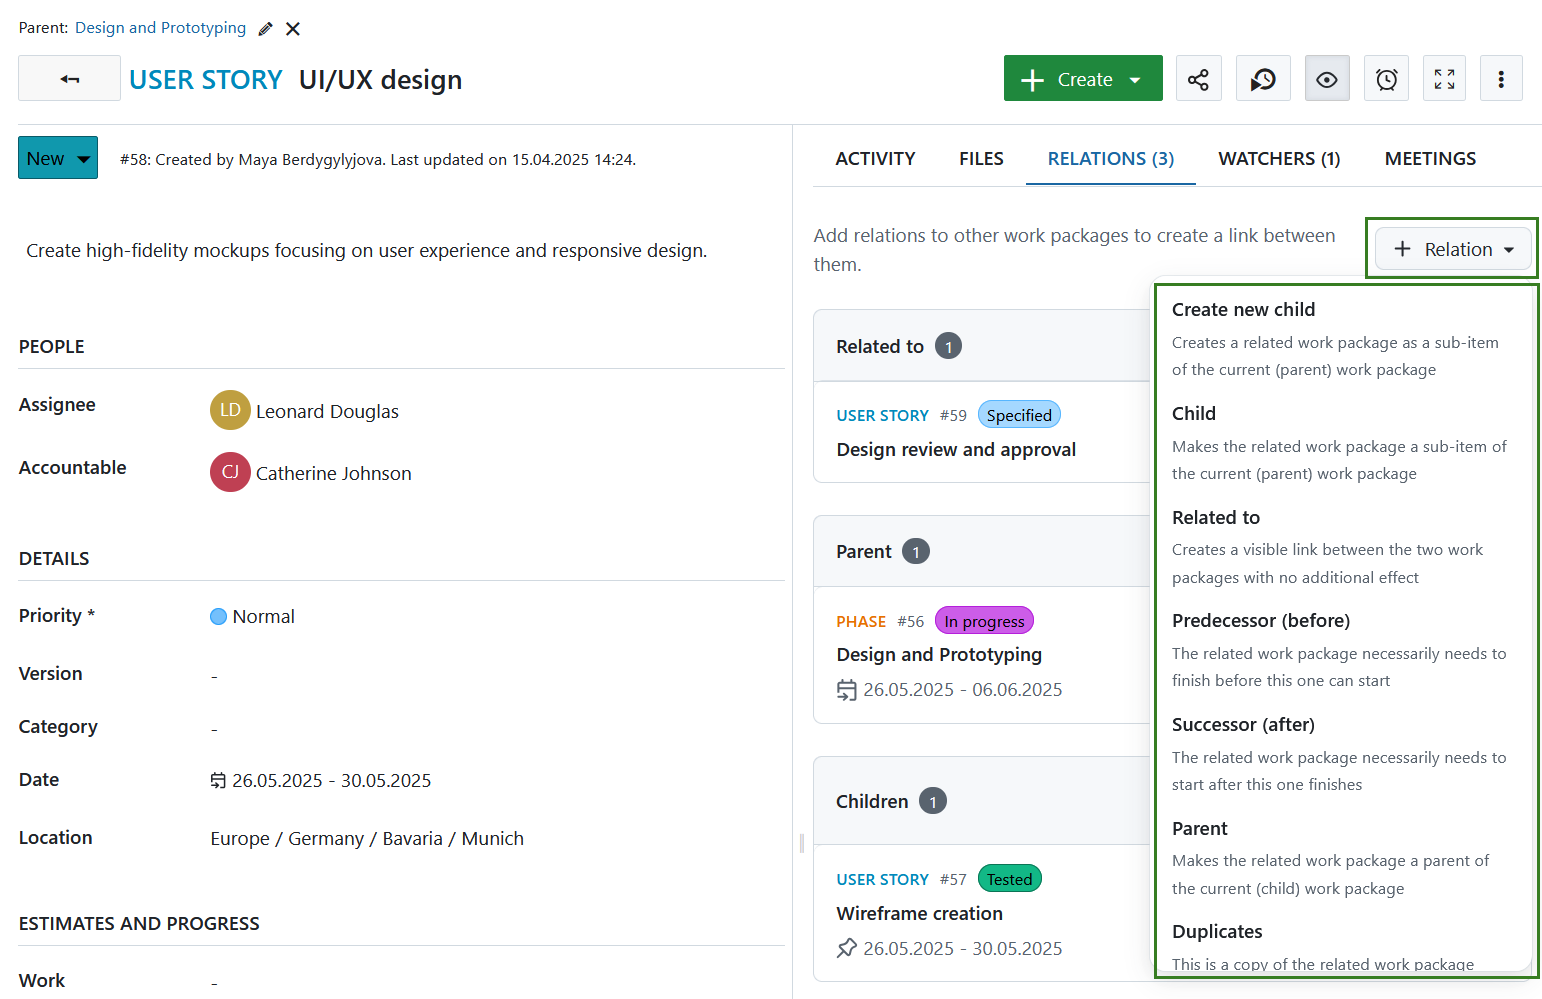
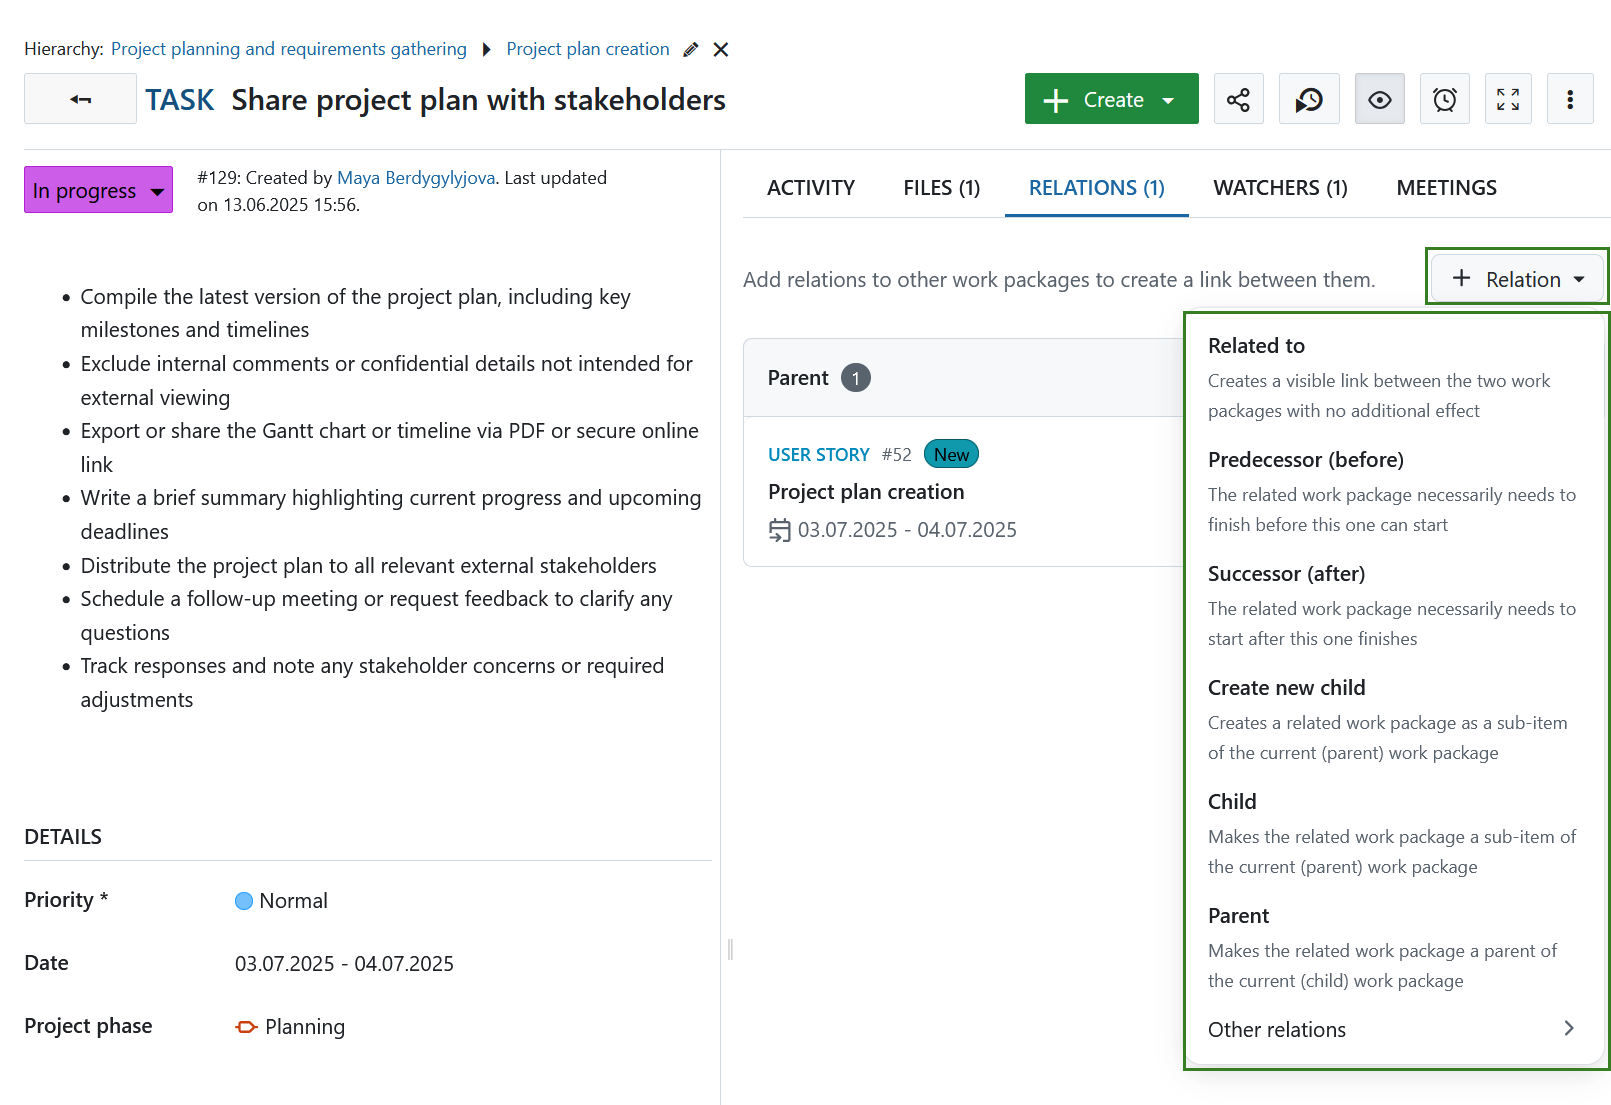
[#65395] Work package relations menu changes  https://community.openp… (#19424)
[#65395] Work package relations menu changes  https://community.openproject.org/work_packages/65395

[#65395] Work package relations menu changes

https://community.openproject.org/work_packages/65395

diff --git a/docs/user-guide/work-packages/work-package-relations-hierarchies/README.md b/docs/user-guide/work-packages/work-package-relations-hierarchies/README.md
@@ -37,20 +37,7 @@ Work package relations indicate that work packages address a similar topic or cr
 
 You can select one of the following relations:
 
-- **Create new child** - This option lets you create a new package and automatically adds it as a child to the current (parent) work package.
-
-- **Child** - This option allows you to add an existing work package as a child to the current (parent) work package.
-
 - **Related to** - This option adds a link from the work package A to work package B, so that project members can immediately see the connection, even if the work packages are not members of the same hierarchy.
-
-- **Parent**  - This option makes the related work package a parent of the current (child) work package.
-
-- **Duplicates / Duplicated by** - This option indicates that the work package B duplicates a work package A in one way or another, for example both address the same task. This can be useful if you have the same work package that needs to be a part of a closed and public projects at the same time. The connection in this case is only semantic, the changes you make in work package A will need to be adapted in work package B manually.
-
-> [!NOTE]
-> Some changes in statuses will be adjusted automatically for the duplicated work package. Specifically, if the status of a work package A is set to be "closed" (or set to any status that is defined to count as "closed" in the  [system settings](../../../system-admin-guide/manage-work-packages/work-package-status/), for example "rejected" often counts as a "closed" status), the status of the work package B will change to "closed". Note that this is direction dependent. Only if the work package A is closed will the work package B be closed as well, not the other way around.
-
-- **Blocks / Blocked by** - This option defines status change restrictions between two work packages. If you set a work package A to be blocking work package B, the status of work package B cannot be set to closed or resolved until the work package A is closed.
 
 - **Predecessor (before)/ Successor (after)** - Defines a chronological relation between two work packages. For example, if you set a work package A to precede a work package B, the start date of B has to be at least a day after the finish date of A.
   Please note: If work package B is in [manual scheduling mode](../../gantt-chart/scheduling/#manual-scheduling), changing the finish date of work package A will have no effect on work package B.
@@ -70,6 +57,21 @@ Only working days are considered when calculating lag. For example, if the prede
 You can always edit the *Description* and *Lag* fields at a later time.
 
 ![Add a successor work package in OpenProject](openproject_user_guide_relations_tab_edit_lag.png)
+
+- **Create new child** - This option lets you create a new package and automatically adds it as a child to the current (parent) work package.
+
+- **Child** - This option allows you to add an existing work package as a child to the current (parent) work package.
+
+- **Parent**  - This option makes the related work package a parent of the current (child) work package.
+
+- **Other relations** - Clicking *other relations* opens second level navigation with additional relations options. They include: 
+
+- **Duplicates / Duplicated by** - This option indicates that the work package B duplicates a work package A in one way or another, for example both address the same task. This can be useful if you have the same work package that needs to be a part of a closed and public projects at the same time. The connection in this case is only semantic, the changes you make in work package A will need to be adapted in work package B manually.
+
+> [!NOTE]
+> Some changes in statuses will be adjusted automatically for the duplicated work package. Specifically, if the status of a work package A is set to be "closed" (or set to any status that is defined to count as "closed" in the  [system settings](../../../system-admin-guide/manage-work-packages/work-package-status/), for example "rejected" often counts as a "closed" status), the status of the work package B will change to "closed". Note that this is direction dependent. Only if the work package A is closed will the work package B be closed as well, not the other way around.
+
+- **Blocks / Blocked by** - This option defines status change restrictions between two work packages. If you set a work package A to be blocking work package B, the status of work package B cannot be set to closed or resolved until the work package A is closed.
 
 - **Includes / Part of** - Defines if work package A includes or is part of work package B. This relation type can be used for example when you have a roll-out work package and work packages which should be shown as included without using hierarchical relationships. There is no additional effect.
 
